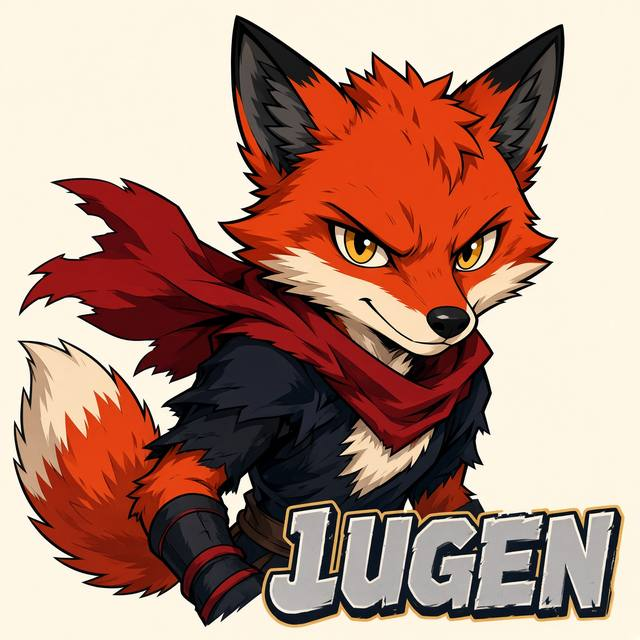
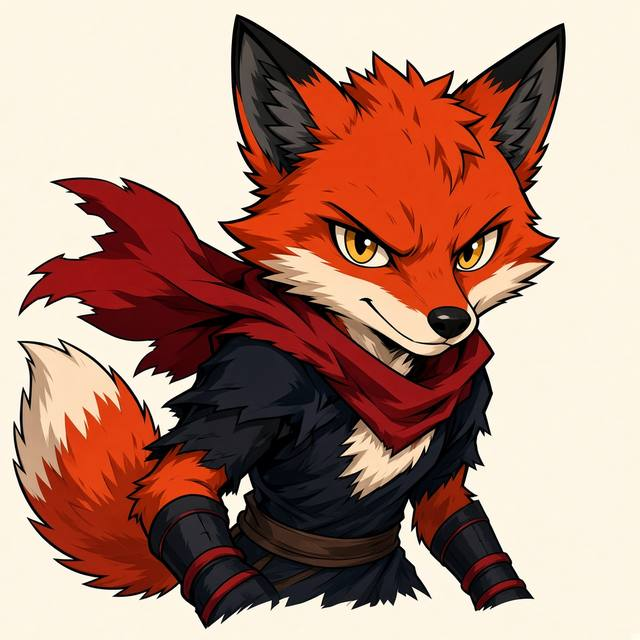
Order badges from bunny to lion and drop the fox lettering.
The unicorn is now a wolf. Puzzle 100 awards the lion.

diff --git a/src/snaptile/badges.ts b/src/snaptile/badges.ts
@@ -10,36 +10,36 @@ export type Badge = {
 };
 
 export const BADGES: Badge[] = [
-  { id: "kitten", name: "First Paws", animal: "Kitten", detail: "Finish puzzles 1–5", basic: true },
-  { id: "puppy", name: "Clever Pup", animal: "Puppy", detail: "Finish puzzles 6–10", basic: true },
-  { id: "bunny", name: "Speedy Bunny", animal: "Bunny", detail: "Finish puzzles 11–15", basic: false },
-  { id: "fox", name: "Curious Fox", animal: "Fox", detail: "Finish puzzles 16–20", basic: false },
-  { id: "bear", name: "Strong Bear", animal: "Bear", detail: "Finish puzzles 21–25", basic: false },
-  { id: "owl", name: "Wise Owl", animal: "Owl", detail: "Finish puzzles 26–30", basic: false },
-  { id: "lion", name: "Brave Lion", animal: "Lion", detail: "Finish puzzles 31–40", basic: false },
-  { id: "elephant", name: "Mighty Elephant", animal: "Elephant", detail: "Finish puzzles 41–50", basic: false },
-  { id: "zebra", name: "Graceful Zebra", animal: "Zebra", detail: "Finish puzzles 51–60", basic: false },
-  { id: "tiger", name: "Royal Tiger", animal: "Tiger", detail: "Finish puzzles 61–75", basic: false },
-  { id: "dragon", name: "Legendary Dragon", animal: "Dragon", detail: "Finish all 100 puzzles", basic: false },
-  { id: "cat", name: "Color Cat", animal: "Cat", detail: "Use every piece your plan allows in one Free Build", basic: false },
+  { id: "bunny", name: "Speedy Bunny", animal: "Bunny", detail: "Finish puzzles 1–5", basic: true },
+  { id: "turtle", name: "Steady Turtle", animal: "Turtle", detail: "Finish 3 puzzles in a row without extra help", basic: true },
   { id: "giraffe", name: "Tall Giraffe", animal: "Giraffe", detail: "Build something 6 tiles tall", basic: false },
+  { id: "zebra", name: "Graceful Zebra", animal: "Zebra", detail: "Finish puzzles 6–10", basic: true },
+  { id: "kitten", name: "First Paws", animal: "Kitten", detail: "Finish puzzles 11–15", basic: false },
+  { id: "puppy", name: "Clever Pup", animal: "Puppy", detail: "Finish puzzles 16–20", basic: false },
   { id: "monkey", name: "Creative Monkey", animal: "Monkey", detail: "Finish 5 Free Builds", basic: false },
-  { id: "turtle", name: "Steady Turtle", animal: "Turtle", detail: "Finish 3 puzzles in a row without extra help", basic: false },
-  { id: "unicorn", name: "Rainbow Unicorn", animal: "Unicorn", detail: "Use every color in one build", basic: false },
+  { id: "cat", name: "Color Cat", animal: "Cat", detail: "Use every piece your plan allows in one Free Build", basic: false },
+  { id: "owl", name: "Wise Owl", animal: "Owl", detail: "Finish puzzles 21–25", basic: false },
+  { id: "fox", name: "Curious Fox", animal: "Fox", detail: "Finish puzzles 26–30", basic: false },
+  { id: "wolf", name: "Wild Wolf", animal: "Wolf", detail: "Use every color in one build", basic: false },
+  { id: "elephant", name: "Mighty Elephant", animal: "Elephant", detail: "Finish puzzles 31–40", basic: false },
+  { id: "bear", name: "Strong Bear", animal: "Bear", detail: "Finish puzzles 41–50", basic: false },
+  { id: "tiger", name: "Royal Tiger", animal: "Tiger", detail: "Finish puzzles 51–60", basic: false },
+  { id: "dragon", name: "Legendary Dragon", animal: "Dragon", detail: "Finish puzzles 61–75", basic: false },
+  { id: "lion", name: "Brave Lion", animal: "Lion", detail: "Finish all 100 puzzles", basic: false },
 ];
 
 const RANGES: Record<string, [number, number]> = {
-  kitten: [1, 5],
-  puppy: [6, 10],
-  bunny: [11, 15],
-  fox: [16, 20],
-  bear: [21, 25],
-  owl: [26, 30],
-  lion: [31, 40],
-  elephant: [41, 50],
-  zebra: [51, 60],
-  tiger: [61, 75],
-  dragon: [1, 100],
+  bunny: [1, 5],
+  zebra: [6, 10],
+  kitten: [11, 15],
+  puppy: [16, 20],
+  owl: [21, 25],
+  fox: [26, 30],
+  elephant: [31, 40],
+  bear: [41, 50],
+  tiger: [51, 60],
+  dragon: [61, 75],
+  lion: [1, 100],
 };
 
 export function badgeJustFinished(puzzleId: number): Badge | undefined {
@@ -60,7 +60,7 @@ export function earnedPuzzleBadges(completed: number[]): string[] {
 export function buildBadges(pieces: Piece[], tier: Tier): string[] {
   const ids: string[] = [];
   const colors = new Set(pieces.map((p) => p.color));
-  if (colors.size >= TILE_COLORS.length && pieces.length > 0) ids.push("unicorn");
+  if (colors.size >= TILE_COLORS.length && pieces.length > 0) ids.push("wolf");
   if (pieces.length > 0) {
     const height = Math.max(...pieces.map((p) => topY(p))) - Math.min(...pieces.map((p) => topY(p)));
     if (height >= 6) ids.push("giraffe");

diff --git a/src/snaptile/screens.tsx b/src/snaptile/screens.tsx
@@ -11,7 +11,7 @@ import { TILE_COLORS, TILE_HEX, kindKey, pieceLimit, pieceLimitLabel, puzzleCap,
 const TileCanvas = lazy(() => import("./TileCanvas").then((mod) => ({ default: mod.TileCanvas })));
 
 function BadgeArt({ id, earned }: { id: string; earned: boolean }) {
-  return <img className={earned ? "snap-badge-art" : "snap-badge-art is-locked"} src={`${import.meta.env.BASE_URL}badges/${id}.jpg?v=2`} alt="" />;
+  return <img className={earned ? "snap-badge-art" : "snap-badge-art is-locked"} src={`${import.meta.env.BASE_URL}badges/${id}.jpg?v=3`} alt="" />;
 }
 
 function TileGlyph({ kind, size = 36 }: { kind: "square" | "triangle" | "flat" | "wall" | "roof" | "solid" | "window" | "door"; size?: number }) {
@@ -536,7 +536,7 @@ function BadgePop({ badgeId, name, animal, onDone }: { badgeId: string; name: st
         <span key={i} className="snap-confetti" style={{ left: `${(i * 17) % 100}%`, animationDelay: `${(i % 6) * 0.12}s`, background: ["#ff5a7a", "#ffd15a", "#5ad1ff", "#7d5cff", "#3ddc97", "#ff8a3d"][i % 6] }} />
       ))}
       <p className="snap-kicker">New badge!</p>
-      <img className="snap-pop-art" src={`${import.meta.env.BASE_URL}badges/${badgeId}.jpg?v=2`} alt="" />
+      <img className="snap-pop-art" src={`${import.meta.env.BASE_URL}badges/${badgeId}.jpg?v=3`} alt="" />
       <h1>{name}</h1>
       <p>{animal}</p>
       <button className="snap-primary" onClick={onDone}>
